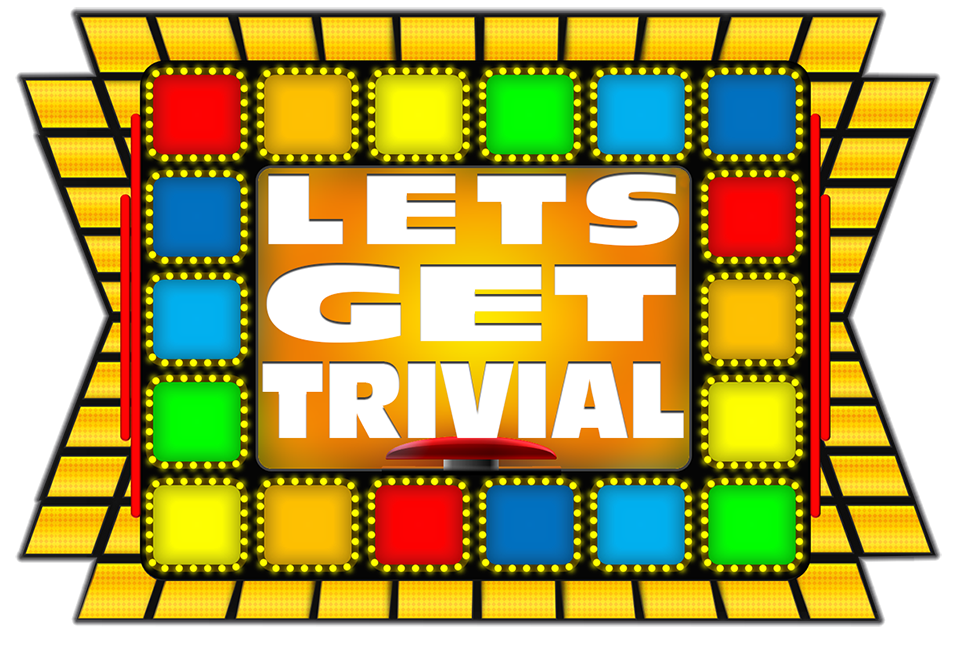
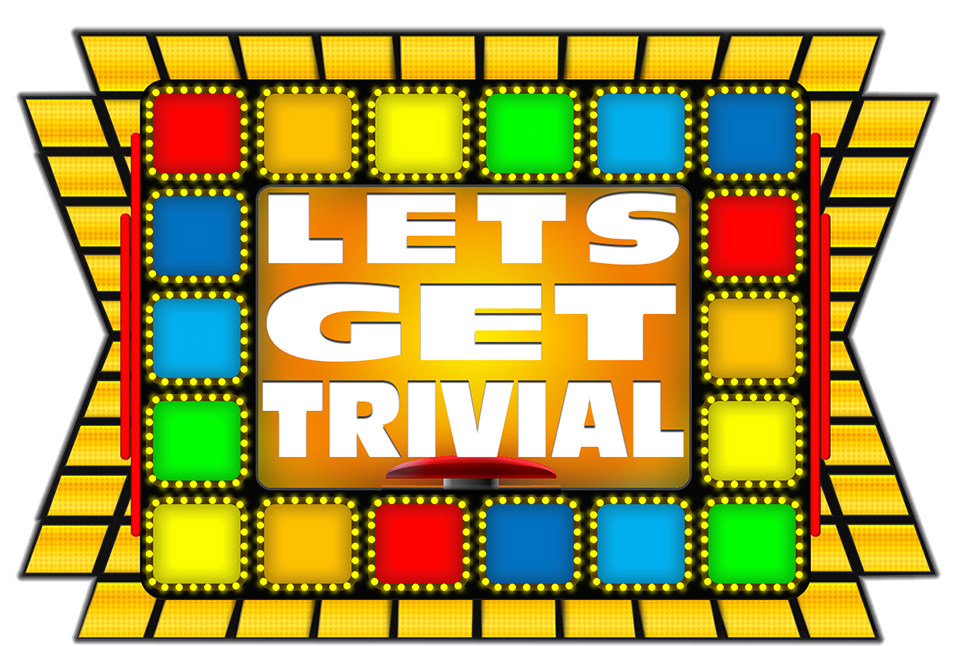
new design pictures add to html picts

diff --git a/music.html b/music.html
@@ -1,11 +1,24 @@
 <!DOCTYPE html>
 <html lang="en">
+
 <head>
     <meta charset="UTF-8">
     <meta name="viewport" content="width=device-width, initial-scale=1.0">
     <title>Music Category</title>
 </head>
+
 <body>
-    
+    <div class="w3-content" style="max-width: 800px;">
+        <div class="w3-display-content w3-text-white">
+            <img src="<div class=" w3-content" style="max-width: 800px;">
+            <div class="w3-display-content w3-text-white">
+                <img src="./assets/Whammy-game-music-page.png" alt="Lights" style="width:100%"></div>
+            <!-- <div class="w3-display-bottommiddle"><p>Bottom Mid</p> -->
+            <p>Pick a Category to Start</p>" alt="Lights" style="width:100%">
+        </div>
+        <!-- <div class="w3-display-bottommiddle"><p>Bottom Mid</p> -->
+        <p>Yo Yo Yo...</p>
+
 </body>
+
 </html>

diff --git a/art.html b/art.html
@@ -1,5 +1,6 @@
 <!DOCTYPE html>
 <html lang="en">
+
 <head>
     <meta charset="UTF-8">
     <meta name="viewport" content="width=device-width, initial-scale=1.0">
@@ -7,7 +8,13 @@
     <link rel="stylesheet" href="https://www.w3schools.com/w3css/4/w3.css">
     <link rel="stylesheet" href="./css/styles.css">
 </head>
+
 <body>
-    <h1>Hello World!</h1>
+    <div class="w3-content" style="max-width: 800px;">
+        <div class="w3-display-content w3-text-white">
+            <img src="./assets/Whammy-game-art-page.png" alt="Lights" style="width:100%"></div>
+        <!-- <div class="w3-display-bottommiddle"><p>Bottom Mid</p> -->
+        <p>Text Here</p>
 </body>
+
 </html>

diff --git a/books.html b/books.html
@@ -1,11 +1,18 @@
 <!DOCTYPE html>
 <html lang="en">
+
 <head>
     <meta charset="UTF-8">
     <meta name="viewport" content="width=device-width, initial-scale=1.0">
     <title>Books Category</title>
 </head>
+
 <body>
-    
+    <div class="w3-content" style="max-width: 800px;">
+        <div class="w3-display-content w3-text-white">
+            <img src="./assets/Whammy-game-books-page.png" alt="Lights" style="width:100%"></div>
+        <!-- <div class="w3-display-bottommiddle"><p>Bottom Mid</p> -->
+        <p>Pick a Category to Start</p>
 </body>
+
 </html>

diff --git a/history.html b/history.html
@@ -1,11 +1,19 @@
 <!DOCTYPE html>
 <html lang="en">
+
 <head>
     <meta charset="UTF-8">
     <meta name="viewport" content="width=device-width, initial-scale=1.0">
     <title>History Category</title>
 </head>
+
 <body>
-    
+    <div class="w3-content" style="max-width: 800px;">
+        <div class="w3-display-content w3-text-white">
+            <img src="./assets/Whammy-game-history-page.png" alt="Lights" style="width:100%"></div>
+        <!-- <div class="w3-display-bottommiddle"><p>Bottom Mid</p> -->
+        <p>Text here...</p>
+
 </body>
+
 </html>

diff --git a/sports.html b/sports.html
@@ -1,11 +1,19 @@
 <!DOCTYPE html>
 <html lang="en">
+
 <head>
     <meta charset="UTF-8">
     <meta name="viewport" content="width=device-width, initial-scale=1.0">
     <title>Sports Category</title>
 </head>
+
 <body>
-    
+    <div class="w3-content" style="max-width: 800px;">
+        <div class="w3-display-content w3-text-white">
+            <img src="./assets/Whammy-game-sports-page.png" alt="Lights" style="width:100%"></div>
+        <!-- <div class="w3-display-bottommiddle"><p>Bottom Mid</p> -->
+        <p>Text Here...</p>
+
 </body>
+
 </html>
